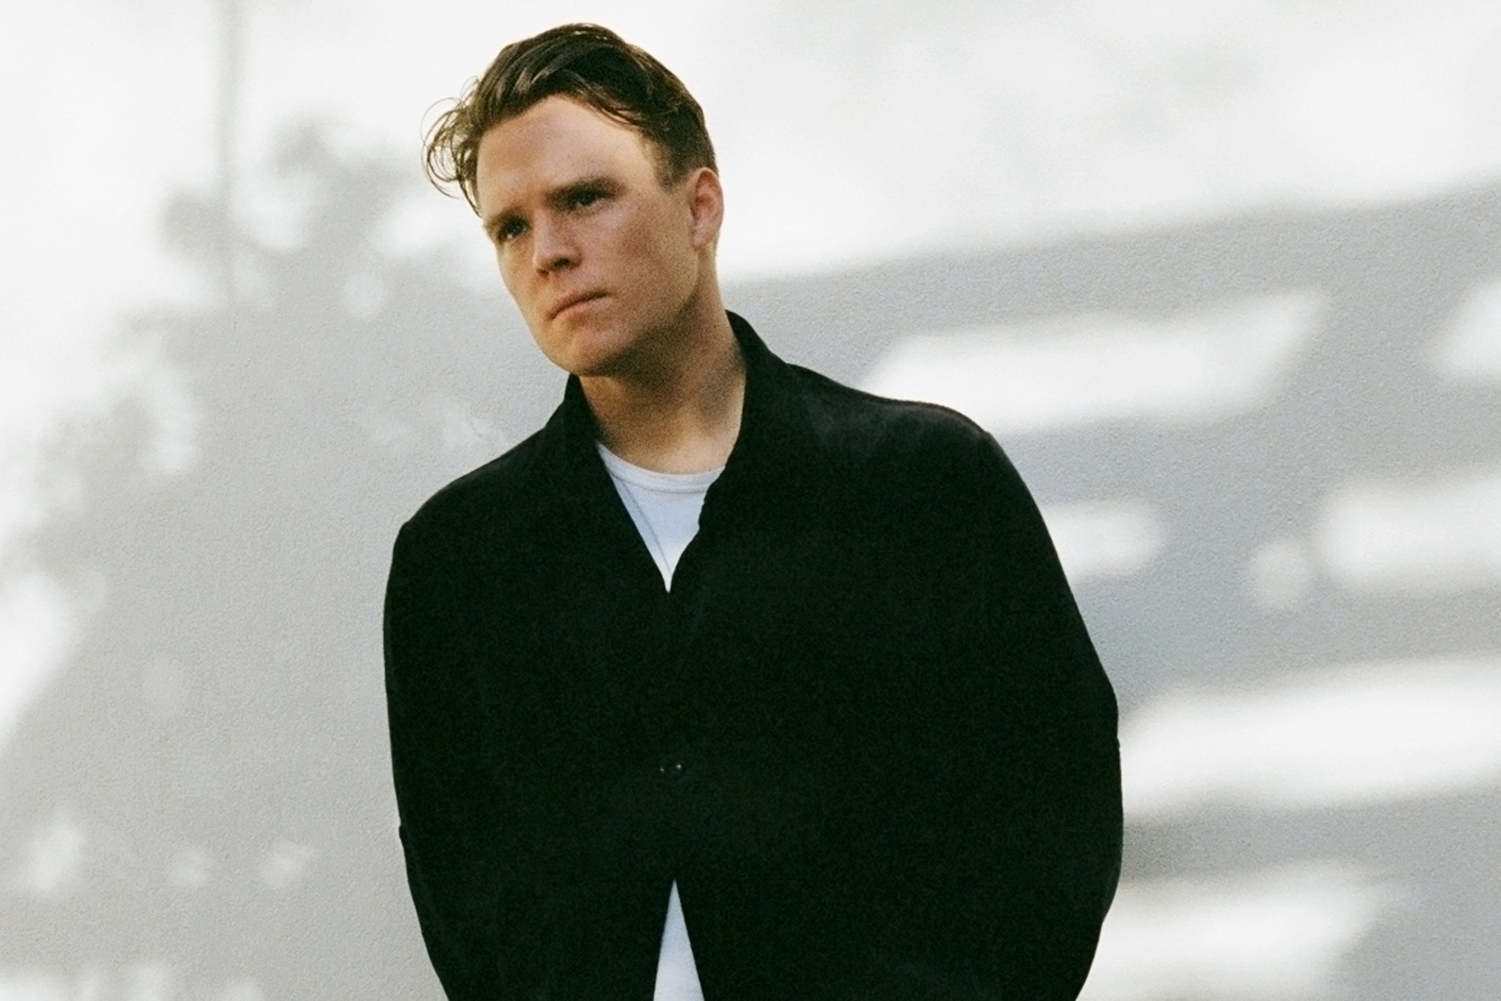
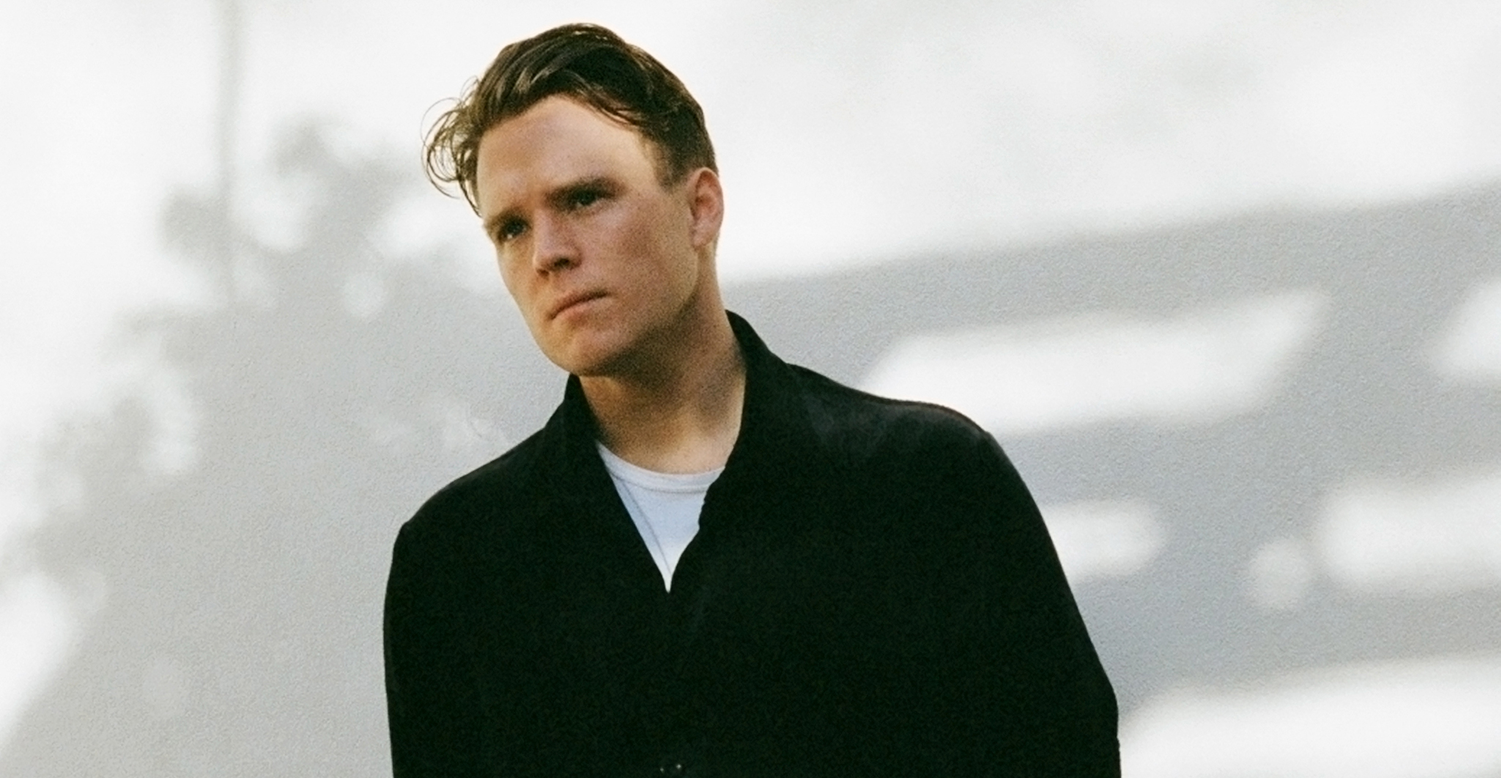
Created quiz.html and added hero image, footer and first quiz question

diff --git a/quiz.html b/quiz.html
@@ -21,17 +21,17 @@
             <li class="nav-item">
                 <a class="nav-link" href="index.html">Home</a>
             </li>
-            <li class="nav-item active">
-                <a class="nav-link" href="#">Music<span class="sr-only">(current)</span></a>
-            </li>
             <li class="nav-item">
-                <a class="nav-link" href="live.html">Live</a>
+                <a class="nav-link" href="music.html">Music</a>
+            </li>
+            <li class="nav-item active">
+                <a class="nav-link" href="live.html">Live<span class="sr-only">(current)</span></a>
             </li>
             <li class="nav-item">
                 <a class="nav-link" href="contact.html">Contact</a>
             </li>
             <li class="nav-item">
-                <a class="nav-link" href="quiz.html">Quiz</a>
+                <a class="nav-link" href="#">Quiz</a>
             </li>
         </ul>
         <a href="index.html" id="nav-login" data-toggle="modal" data-target="#exampleModal"><i class="fas fa-user" id="login-icon"></i>Log in</a>
@@ -71,73 +71,38 @@
    </nav>
 </div>
 
-
 <div class="container-fluid p-0 hero-image">
     <div class="row no-gutters">
         <div class="col-12 d-none d-sm-block no-gutters">
-          <img src="assets/images/hero-images/fact.png" alt="Tourist"> 
+            <img src="assets/images/hero-images/portrait.png" alt="Tourist">
         </div>
     </div>
 </div>
 
-<div class="container music-wrapper">
-    <div class="row music-catalogue">
-        <div class="col-6 col-md-4 col-lg-3">
-            <a href="">
-                <img src="assets/images/music-artwork/wild.png" alt="Wild artwork">
-                <h3>Wild</h3>
-            </a>
+<section class="quiz-section">
+    <div class="container quiz-table">
+        <div class="row quiz-heading">
+            <div class="col-6">
+                <h3>Question 1</h3>
+            </div>
         </div>
-        <div class="col-6 col-md-4 col-lg-3">
-            <a href="">
-                <img src="assets/images/music-artwork/everyday.png" alt="Everyday artwork">
-                <h3>Everyday</h3>
-            </a>
+        <div class="row quiz-question justify-content-center">
+            <div class="col-6">
+                <h3>Tourist won a grammy for writing a song for which British singer?</h3>
+            </div>
         </div>
-        <div class="col-6 col-md-4 col-lg-3">
-            <a href="">
-                <img src="assets/images/music-artwork/u.png" alt="U artwork">
-                <h3>U</h3>
-            </a>
+        <div class="row quiz-answers justify-content-center">
+            <p class="btn btn-light">Sam Smith</p>
         </div>
-        <div class="col-6 col-md-4 col-lg-3">
-            <a href="">
-                <img src="assets/images/music-artwork/last.png" alt="Last artwork">
-                <h3>Last</h3>
-            </a>
+        <div class="row quiz-answers justify-content-center">
+            <p class="btn btn-light">Sam Smith</p>
         </div>
-        <div class="col-6 col-md-4 col-lg-3">
-            <a href="">
-                <img src="assets/images/music-artwork/wash.png" alt="Wash artwork">
-                <h3>Wash</h3>
-            </a>
-        </div>
-        <div class="col-6 col-md-4 col-lg-3">
-            <a href="">
-                <img src="assets/images/music-artwork/holding-on.png" alt="Holding on artwork">
-                <h3>Holding on</h3>
-            </a>
-        </div>
-        <div class="col-6 col-md-4 col-lg-3">
-            <a href="">
-                <img src="assets/images/music-artwork/patterns.png" alt="Patterns artwork">
-                <h3>Patterns</h3>
-            </a>
-        </div>
-        <div class="col-6 col-md-4 col-lg-3">
-            <a href="">
-                <img src="assets/images/music-artwork/tonight.png" alt="Tonight artwork">
-                <h3>Tonight</h3>
-            </a>
-        </div>
-        <div class="col-6 col-md-4 col-lg-3">
-            <a href="">
-                <img src="assets/images/music-artwork/tourist.png" alt="Tourist artwork">
-                <h3>Tourist</h3>
-            </a>
+        <div class="row quiz-answers justify-content-center">
+            <p class="btn btn-light">Sam Smith</p>
         </div>
     </div>
-</div>
+</section>
+
 
 <footer>
     <div class="container-fluid tourist-footer">

diff --git a/assets/css/style.css b/assets/css/style.css
@@ -449,3 +449,35 @@
   }
 }
 
+/*------------------------------ Quiz section  */
+
+.quiz-section {
+    height: 100vh;
+}
+
+.quiz-table {
+    height: 30rem;
+    width: 80vw;
+    background-color: #323232;
+    margin-top: 4rem;
+}
+
+.quiz-heading h3 {
+    font-family: "raleway", sans-serif;
+    font-size: 40px;
+    font-weight: 800;
+    color: #ffffff;
+    padding-top: 5px;
+}
+
+.quiz-question h3 {
+    font-family: "raleway", sans-serif;
+    font-size: 18px;
+    color: #ffffff;
+    margin-top: 2rem;
+}
+
+.quiz-answers p {
+    width: 300px;
+}
+

diff --git a/index.html b/index.html
@@ -31,7 +31,7 @@
                 <a class="nav-link" href="contact.html">Contact</a>
             </li>
             <li class="nav-item">
-                <a class="nav-link" href="#">Quiz</a>
+                <a class="nav-link" href="quiz.html">Quiz</a>
             </li>
         </ul>
         <a href="index.html" id="nav-login" data-toggle="modal" data-target="#exampleModal"><i class="fas fa-user" id="login-icon"></i>Log in</a>

diff --git a/live.html b/live.html
@@ -31,7 +31,7 @@
                 <a class="nav-link" href="contact.html">Contact</a>
             </li>
             <li class="nav-item">
-                <a class="nav-link" href="#">Quiz</a>
+                <a class="nav-link" href="quiz.html">Quiz</a>
             </li>
         </ul>
         <a href="index.html" id="nav-login" data-toggle="modal" data-target="#exampleModal"><i class="fas fa-user" id="login-icon"></i>Log in</a>
